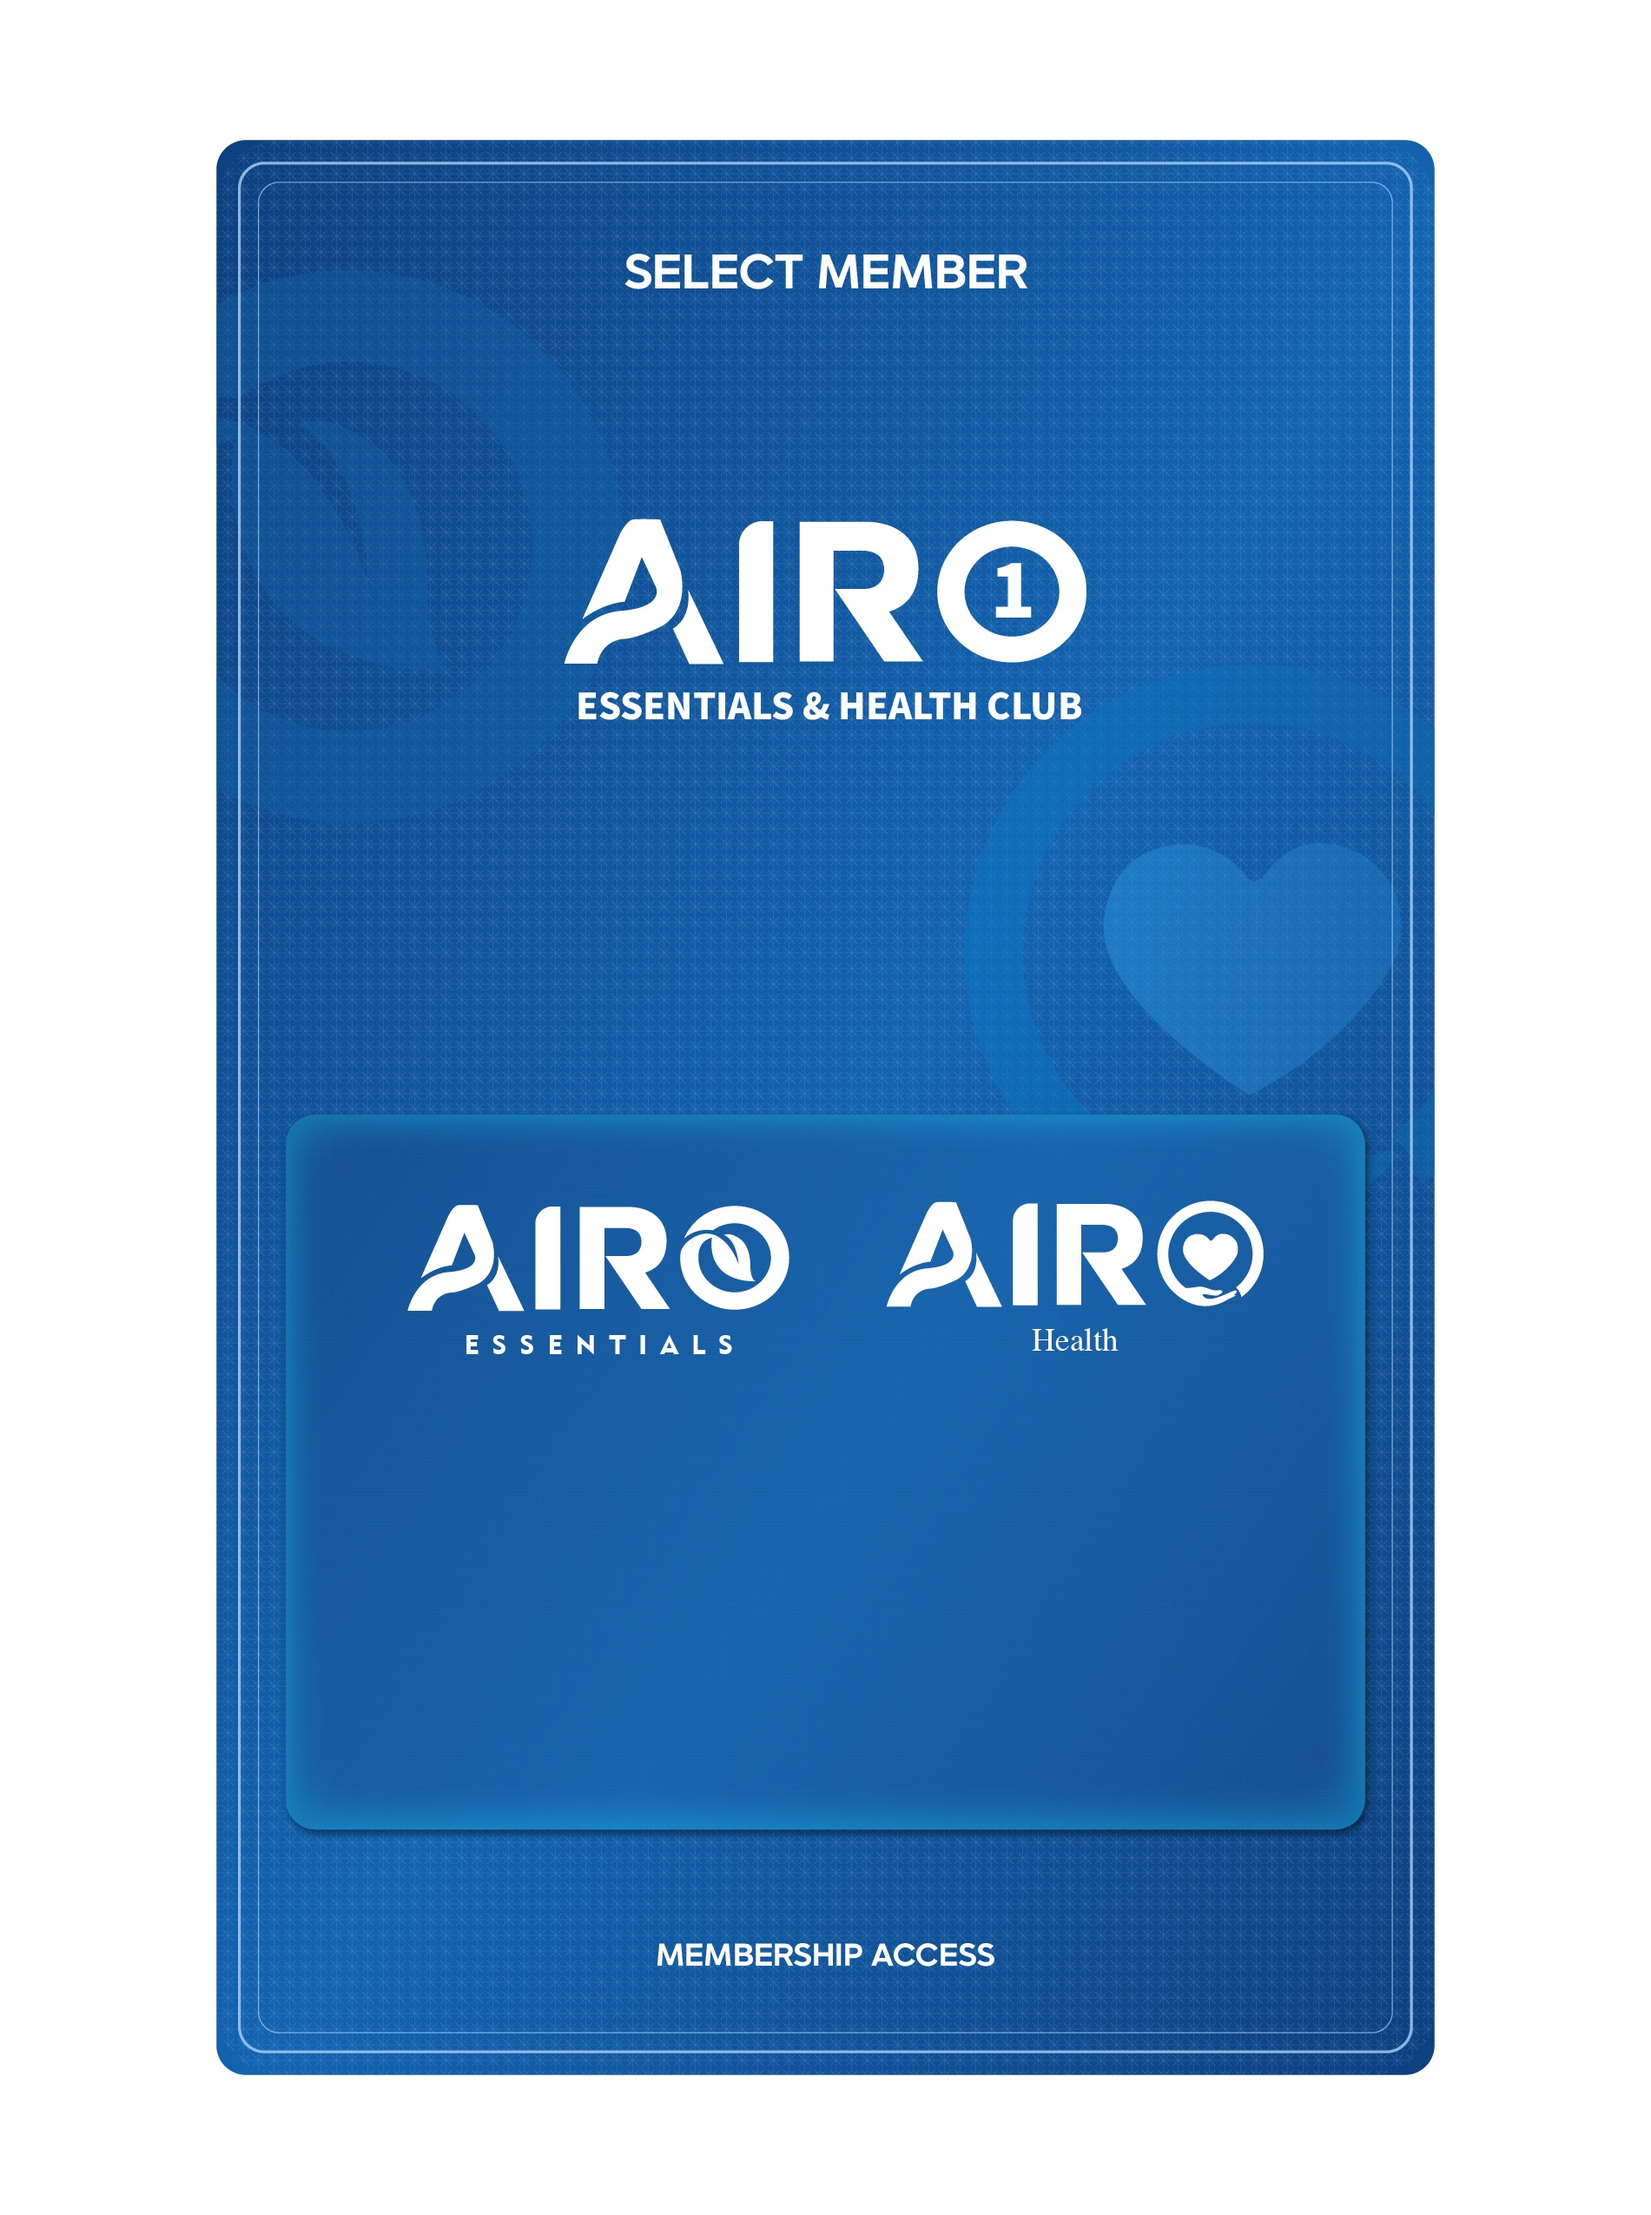
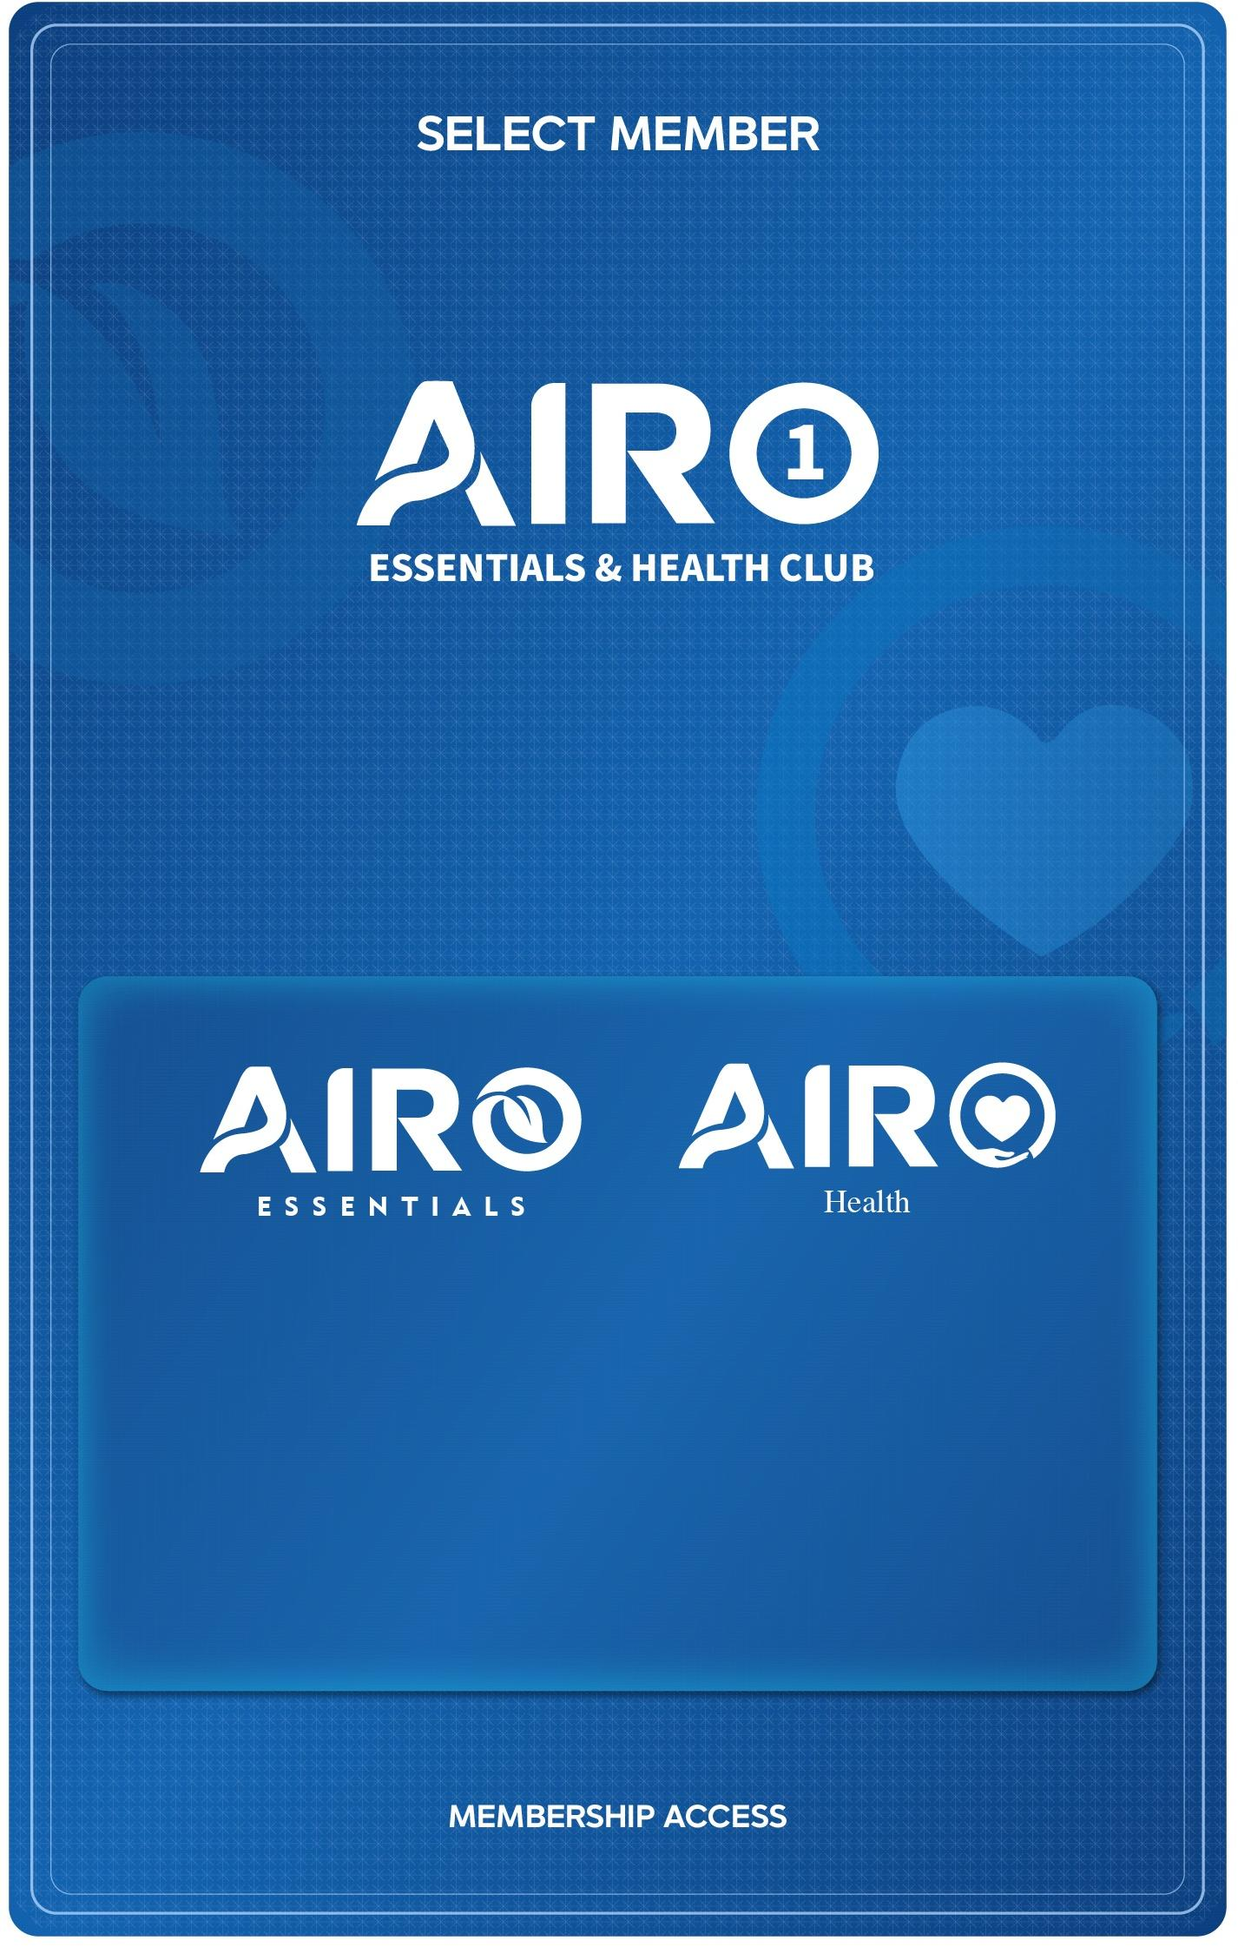
Auto-crop whitespace from templates and convert to portrait aspect ratio

diff --git a/src/lib/membershipCardGenerator.ts b/src/lib/membershipCardGenerator.ts
@@ -149,13 +149,21 @@ export async function generateDigitalMembershipCard(
     year: 'numeric',
   }).replace(',', '');
 
+  // Dynamic Dimensions
+  const svgWidth = 900;
+  const svgHeight = activeTemplateUrl ? 1425 : 920;
+  const cardWidth = 860;
+  const cardHeight = activeTemplateUrl ? 1385 : 880;
+  const textTranslateY = activeTemplateUrl ? 1065 : 560;
+  const qrTranslateY = activeTemplateUrl ? 1035 : 530;
+
   // SVG graphic matching the exact card design
   const svgContent = `
-    <svg xmlns="http://www.w3.org/2000/svg" viewBox="0 0 900 920" width="900" height="920">
+    <svg xmlns="http://www.w3.org/2000/svg" viewBox="0 0 ${svgWidth} ${svgHeight}" width="${svgWidth}" height="${svgHeight}">
       
       <defs>
         <clipPath id="cardClip">
-          <rect x="20" y="20" width="860" height="880" rx="44" />
+          <rect x="20" y="20" width="${cardWidth}" height="${cardHeight}" rx="44" />
         </clipPath>
         <style>
           .member-name { font-family: 'Georgia', 'Times New Roman', serif; font-weight: 500; font-size: 32px; fill: ${textNameColor}; }
@@ -197,9 +205,9 @@ export async function generateDigitalMembershipCard(
 
       <!-- Outer Background Card -->
       ${activeTemplateUrl ? 
-        `<image href="${activeTemplateUrl}" x="20" y="20" width="860" height="880" preserveAspectRatio="xMidYMid slice" clip-path="url(#cardClip)" />` 
+        `<image href="${activeTemplateUrl}" x="20" y="20" width="${cardWidth}" height="${cardHeight}" preserveAspectRatio="xMidYMid slice" clip-path="url(#cardClip)" />` 
         : 
-        `<rect x="20" y="20" width="860" height="880" rx="44" fill="${outerBgFill}" stroke="${outerStroke}" stroke-width="2" />`
+        `<rect x="20" y="20" width="${cardWidth}" height="${cardHeight}" rx="44" fill="${outerBgFill}" stroke="${outerStroke}" stroke-width="2" />`
       }
 
       <!-- Top Branding -->
@@ -217,7 +225,7 @@ export async function generateDigitalMembershipCard(
       <image href="${healthLogoUrl}" x="480" y="320" width="300" height="90" preserveAspectRatio="xMidYMid meet" />
 
       <!-- Member Details -->
-      <g transform="translate(130, 560)">
+      <g transform="translate(130, ${textTranslateY})">
         <text x="0" y="0" class="member-name">${memberName}</text>
         <text x="0" y="38" class="member-plan">${displayPlanTitle}</text>
         <g transform="translate(0, 100)">
@@ -229,7 +237,7 @@ export async function generateDigitalMembershipCard(
       </g>
 
       <!-- QR Code Container -->
-      <g transform="translate(590, 530)">
+      <g transform="translate(590, ${qrTranslateY})">
         <text x="50" y="-15" class="scan-lbl" text-anchor="middle">SCAN TO VERIFY</text>
         <image href="${qrCodeDataUrl}" x="-10" y="-10" width="120" height="120" />
       </g>

diff --git a/crop.py b/crop.py
@@ -1,0 +1,12 @@
+from PIL import Image, ImageChops
+import glob
+
+for file in glob.glob('public/templates/*.jpg'):
+    img = Image.open(file)
+    bg = Image.new(img.mode, img.size, (255,255,255))
+    diff = ImageChops.difference(img, bg)
+    bbox = diff.getbbox()
+    if bbox:
+        cropped = img.crop(bbox)
+        cropped.save(file)
+        print(f"Cropped {file} to {bbox}")
